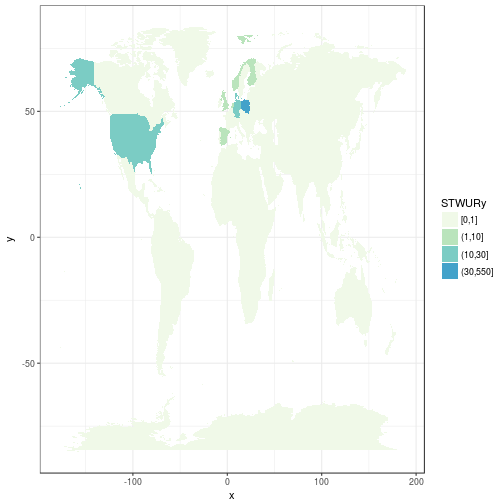
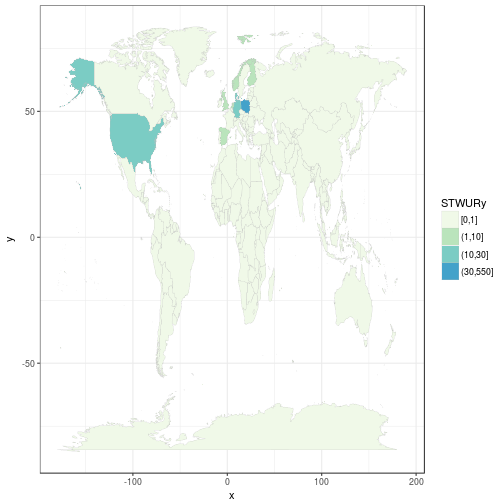
added the newest post

diff --git a/_posts/blog/2017-03-29-mapa_stwurow.md b/_posts/blog/2017-03-29-mapa_stwurow.md
@@ -8,7 +8,7 @@ excerpt:
 tags: []
 image:
   feature:
-date: 2017-03-24
+date: 2017-03-29
 output:
   md_document:
     variant: markdown_github
@@ -16,9 +16,10 @@ output:
 
 ### ggmap i dane z Google Analytics
 
-Nasza strona, [stwur.pl](stwur.pl) istnieje już kilka miesięcy i od początku swojego istnienia cieszy się spory zainteresowaniem miłośników R z całego świata. Są dane, warto je zwizualizować, zwłaszcza, że pasują do tematyki naszego następnego spotkania [I ty możesz zostać kartografem!](https://www.meetup.com/Wroclaw-R-Users-Group/events/238204653/). W tej notce skupimy się na pokazaniu ilu użytkowników ze wszystkich krajów świata weszło na naszą stronę od stycznia do marca.
+Nasza strona, [stwur.pl](stwur.pl) istnieje już kilka miesięcy i od początku swojego istnienia cieszy się spory zainteresowaniem miłośników R z całego świata. Są dane, warto je zwizualizować, zwłaszcza, że pasują do tematyki naszego następnego spotkania [I ty możesz zostać kartografem!](https://www.meetup.com/Wroclaw-R-Users-Group/events/238204653/), które odbywa się już jutro!. W tej notce skupimy się na pokazaniu ilu użytkowników ze wszystkich krajów świata weszło na naszą stronę od stycznia do marca.
 
-```{r STWUR_map}
+
+```r
 library(ggplot2)
 library(ggmap)
 library(maps)
@@ -48,7 +49,13 @@ other_countries <- unique(world_map[["region"]])[!(unique(world_map[["region"]])
 
 # jeszcze dluga droga przed STWURem - w tylu krajach o nas nie slyszeli!
 print(length(other_countries))
+```
 
+```
+## [1] 237
+```
+
+```r
 # dodajmy informacje, ze mamy 0 uzytkownikow w kazdym z krajow ze zmiennej other_countries
 country_full <- rbind(summaries_country, 
                   data.frame(sessions = 0,
@@ -60,16 +67,28 @@ country_full <- rbind(summaries_country,
 
 # to nasi uzytkownicy z calego swiata
 ggplot(country_full, aes(map_id = region)) + 
-  geom_map(aes(fill = usersF), map = world_map) +
+  geom_map(aes(fill = usersF), map = world_map, color = "grey", size = 0.1) +
   expand_limits(x = world_map$long, y = world_map$lat) +
   theme_bw() +
   scale_fill_manual("STWURy", values = brewer.pal(5, "GnBu"))
+```
 
-# skupmy sie na Europie
+![plot of chunk STWUR_map](./figure/STWUR_map-1.png)
 
+Jak można oczekiwać i co potwierdza powyższa mapa, STWUR to wydarzenie głównie europejskie, dlatego też warto przyjrzeć się z bliska Staremu Kontynentowi.
+
+
+
+```r
 ggplot(country_full, aes(map_id = region)) + 
-  geom_map(aes(fill = usersF), map = world_map) +
+  geom_map(aes(fill = usersF), map = world_map, color = "black", size = 0.1) +
   expand_limits(x = c(-10, 35), y = c(35, 70)) +
   theme_bw() +
   scale_fill_manual("STWURy", values = brewer.pal(5, "GnBu"))
 ```
+
+![plot of chunk STWUR_europe](./figure/STWUR_europe-1.png)
+
+STWUR, naturalnie, najbardziej popularny jest w Polsce, zaskakiwać może jednak duża liczba STWURów z Danii i Niemiec. O ile to pierwsze można jeszcze wyjaśnić moim pobytem na Politechnice Duńskiej, gdzie w czasie wolnym aktywnie pracowałem nad stroną STWURa, o tyle niemieckie STWURy budzą moje zaciekawienie. Ujawnijcie się :)
+
+Podsumowując, jak wszystko w R, rysowanie map jest proste i przyjemne. [Na jutrzejszym spotkaniu](https://www.meetup.com/Wroclaw-R-Users-Group/events/238204653/) wspólnie zajmiemy się mapami dla Polski, gdzie porównywać ze sobą będziemy zarówno województwa jak i mniejsze regiony statystyczne. Zapraszamy! Materiały są już dostępne w naszym repozytorium: [https://tinyurl.com/STWUR-3](https://tinyurl.com/STWUR-3).
